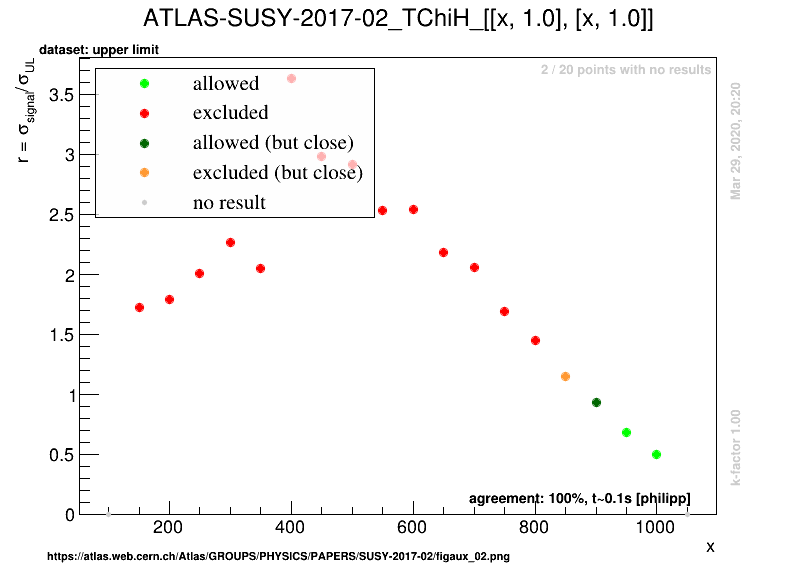
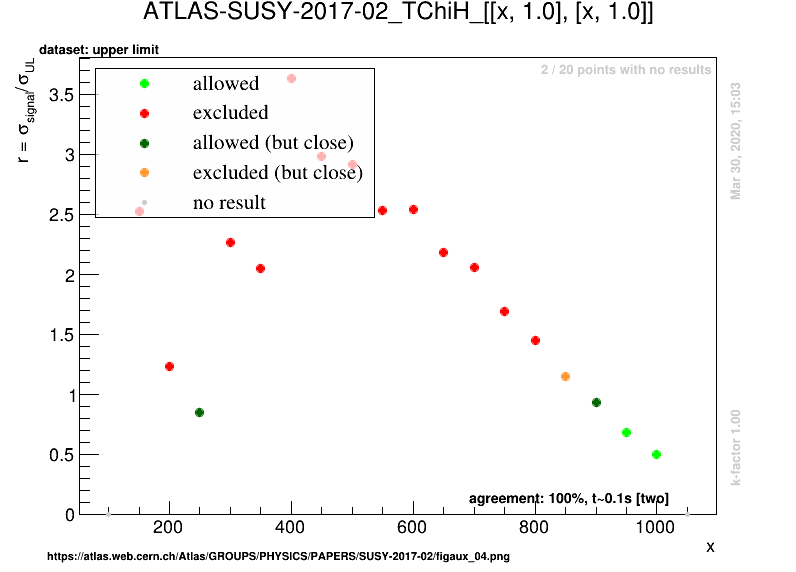
automated update

diff --git a/docs/ValidationUgly123new.md b/docs/ValidationUgly123new.md
@@ -49,19 +49,19 @@ To [official validation plots](Validation123new)
 | | [TChiWZ](SmsDictionary123new#TChiWZ)| 36.1| True |<a href="https://smodels.github.io/validation/123new/13TeV/ATLAS/ATLAS-SUSY-2016-24/validation/TChiWZ_2EqMassAx_EqMassBy.png"><img src="https://smodels.github.io/validation/123new/13TeV/ATLAS/ATLAS-SUSY-2016-24/validation/TChiWZ_2EqMassAx_EqMassBy.png" /></a>  | <img src="https://smodels.github.io/pics/new.png" /> in 1.2.3new! [comment](https://smodels.github.io/validation/123new/13TeV/ATLAS/ATLAS-SUSY-2016-24/validation/TChiWZ.txt) |
 | | [TChipChimSlepSlep](SmsDictionary123new#TChipChimSlepSlep)| 36.1| tbd |<a href="https://smodels.github.io/validation/123new/13TeV/ATLAS/ATLAS-SUSY-2016-24/validation/TChipChimSlepSlep_2EqMassAx_EqMassB0.5x+0.5y_EqMassCy.png"><img src="https://smodels.github.io/validation/123new/13TeV/ATLAS/ATLAS-SUSY-2016-24/validation/TChipChimSlepSlep_2EqMassAx_EqMassB0.5x+0.5y_EqMassCy.png" /></a>  | <img src="https://smodels.github.io/pics/new.png" /> in 1.2.3new!  |
 | | [TSlepSlep](SmsDictionary123new#TSlepSlep)| 36.1| True |<a href="https://smodels.github.io/validation/123new/13TeV/ATLAS/ATLAS-SUSY-2016-24/validation/TSlepSlep_2EqMassAx_EqMassBy.png"><img src="https://smodels.github.io/validation/123new/13TeV/ATLAS/ATLAS-SUSY-2016-24/validation/TSlepSlep_2EqMassAx_EqMassBy.png" /></a>  | <img src="https://smodels.github.io/pics/new.png" /> in 1.2.3new! [comment](https://smodels.github.io/validation/123new/13TeV/ATLAS/ATLAS-SUSY-2016-24/validation/TSlepSlep.txt) |
-| [ATLAS-SUSY-2016-27](https://atlas.web.cern.ch/Atlas/GROUPS/PHYSICS/PAPERS/SUSY-2016-27/)| [T5Zg](SmsDictionary123new#T5Zg)| 36.1| tbd |<a href="https://smodels.github.io/validation/123new/13TeV/ATLAS/ATLAS-SUSY-2016-27/validation/T5Zg_2EqMassAx_EqMassBy_EqMassC1.0.png"><img src="https://smodels.github.io/validation/123new/13TeV/ATLAS/ATLAS-SUSY-2016-27/validation/T5Zg_2EqMassAx_EqMassBy_EqMassC1.0.png" /></a>  | <img src="https://smodels.github.io/pics/new.png" /> in 1.2.3new!  |
-| | [T5gg](SmsDictionary123new#T5gg)| 36.1| tbd |<a href="https://smodels.github.io/validation/123new/13TeV/ATLAS/ATLAS-SUSY-2016-27/validation/T5gg_2EqMassAx_EqMassBy_EqMassC1.0.png"><img src="https://smodels.github.io/validation/123new/13TeV/ATLAS/ATLAS-SUSY-2016-27/validation/T5gg_2EqMassAx_EqMassBy_EqMassC1.0.png" /></a>  | <img src="https://smodels.github.io/pics/new.png" /> in 1.2.3new!  |
-| | [T6gg](SmsDictionary123new#T6gg)| 36.1| tbd |<a href="https://smodels.github.io/validation/123new/13TeV/ATLAS/ATLAS-SUSY-2016-27/validation/T6gg_2EqMassAx_EqMassBy_EqMassC1.0.png"><img src="https://smodels.github.io/validation/123new/13TeV/ATLAS/ATLAS-SUSY-2016-27/validation/T6gg_2EqMassAx_EqMassBy_EqMassC1.0.png" /></a>  | <img src="https://smodels.github.io/pics/new.png" /> in 1.2.3new!  |
-| | [TChipChimgg](SmsDictionary123new#TChipChimgg)| 36.1| tbd |<a href="https://smodels.github.io/validation/123new/13TeV/ATLAS/ATLAS-SUSY-2016-27/validation/TChipChimgg_2EqMassAx_EqMassBy_EqMassC1.0.png"><img src="https://smodels.github.io/validation/123new/13TeV/ATLAS/ATLAS-SUSY-2016-27/validation/TChipChimgg_2EqMassAx_EqMassBy_EqMassC1.0.png" /></a>  | <img src="https://smodels.github.io/pics/new.png" /> in 1.2.3new!  |
+| [ATLAS-SUSY-2016-27](https://atlas.web.cern.ch/Atlas/GROUPS/PHYSICS/PAPERS/SUSY-2016-27/)| [T5Zg](SmsDictionary123new#T5Zg)| 36.1| True |<a href="https://smodels.github.io/validation/123new/13TeV/ATLAS/ATLAS-SUSY-2016-27/validation/T5Zg_2EqMassAx_EqMassBy_EqMassC1.0.png"><img src="https://smodels.github.io/validation/123new/13TeV/ATLAS/ATLAS-SUSY-2016-27/validation/T5Zg_2EqMassAx_EqMassBy_EqMassC1.0.png" /></a>  | <img src="https://smodels.github.io/pics/new.png" /> in 1.2.3new!  |
+| | [T5gg](SmsDictionary123new#T5gg)| 36.1| True |<a href="https://smodels.github.io/validation/123new/13TeV/ATLAS/ATLAS-SUSY-2016-27/validation/T5gg_2EqMassAx_EqMassBy_EqMassC1.0.png"><img src="https://smodels.github.io/validation/123new/13TeV/ATLAS/ATLAS-SUSY-2016-27/validation/T5gg_2EqMassAx_EqMassBy_EqMassC1.0.png" /></a>  | <img src="https://smodels.github.io/pics/new.png" /> in 1.2.3new!  |
+| | [T6gg](SmsDictionary123new#T6gg)| 36.1| True |<a href="https://smodels.github.io/validation/123new/13TeV/ATLAS/ATLAS-SUSY-2016-27/validation/T6gg_2EqMassAx_EqMassBy_EqMassC1.0.png"><img src="https://smodels.github.io/validation/123new/13TeV/ATLAS/ATLAS-SUSY-2016-27/validation/T6gg_2EqMassAx_EqMassBy_EqMassC1.0.png" /></a>  | <img src="https://smodels.github.io/pics/new.png" /> in 1.2.3new!  |
+| | [TChipChimgg](SmsDictionary123new#TChipChimgg)| 36.1| True |<a href="https://smodels.github.io/validation/123new/13TeV/ATLAS/ATLAS-SUSY-2016-27/validation/TChipChimgg_2EqMassAx_EqMassBy_EqMassC1.0.png"><img src="https://smodels.github.io/validation/123new/13TeV/ATLAS/ATLAS-SUSY-2016-27/validation/TChipChimgg_2EqMassAx_EqMassBy_EqMassC1.0.png" /></a>  | <img src="https://smodels.github.io/pics/new.png" /> in 1.2.3new!  |
 | [ATLAS-SUSY-2016-28](https://atlas.web.cern.ch/Atlas/GROUPS/PHYSICS/PAPERS/SUSY-2016-28/)| [T2bb](SmsDictionary123new#T2bb)| 36.1| True |<a href="https://smodels.github.io/validation/123new/13TeV/ATLAS/ATLAS-SUSY-2016-28/validation/T2bb_2EqMassAx_EqMassBy.png"><img src="https://smodels.github.io/validation/123new/13TeV/ATLAS/ATLAS-SUSY-2016-28/validation/T2bb_2EqMassAx_EqMassBy.png" /></a>  | <img src="https://smodels.github.io/pics/new.png" /> in 1.2.3new!  |
 | [ATLAS-SUSY-2017-01](https://atlas.web.cern.ch/Atlas/GROUPS/PHYSICS/PAPERS/SUSY-2017-01/)| [TChiWH](SmsDictionary123new#TChiWH)| 36.1| tbd |<a href="https://smodels.github.io/validation/123new/13TeV/ATLAS/ATLAS-SUSY-2017-01/validation/TChiWH_2EqMassAx_EqMassBy.png"><img src="https://smodels.github.io/validation/123new/13TeV/ATLAS/ATLAS-SUSY-2017-01/validation/TChiWH_2EqMassAx_EqMassBy.png" /></a>  | <img src="https://smodels.github.io/pics/new.png" /> in 1.2.3new! [comment](https://smodels.github.io/validation/123new/13TeV/ATLAS/ATLAS-SUSY-2017-01/validation/TChiWH.txt) |
-| [ATLAS-SUSY-2017-02](https://atlas.web.cern.ch/Atlas/GROUPS/PHYSICS/PAPERS/SUSY-2017-02/)| [TChiH](SmsDictionary123new#TChiH)| 36.1| tbd |<a href="https://smodels.github.io/validation/123new/13TeV/ATLAS/ATLAS-SUSY-2017-02/validation/TChiH_2EqMassAx_EqMassBy.png"><img src="https://smodels.github.io/validation/123new/13TeV/ATLAS/ATLAS-SUSY-2017-02/validation/TChiH_2EqMassAx_EqMassBy.png" /></a>  | <img src="https://smodels.github.io/pics/new.png" /> in 1.2.3new! [comment](https://smodels.github.io/validation/123new/13TeV/ATLAS/ATLAS-SUSY-2017-02/validation/TChiH.txt) |
+| [ATLAS-SUSY-2017-02](https://atlas.web.cern.ch/Atlas/GROUPS/PHYSICS/PAPERS/SUSY-2017-02/)| [TChiH](SmsDictionary123new#TChiH)| 36.1| True |<a href="https://smodels.github.io/validation/123new/13TeV/ATLAS/ATLAS-SUSY-2017-02/validation/TChiH_2EqMassAx_EqMassB1.0.png"><img src="https://smodels.github.io/validation/123new/13TeV/ATLAS/ATLAS-SUSY-2017-02/validation/TChiH_2EqMassAx_EqMassB1.0.png" /></a>  | <img src="https://smodels.github.io/pics/new.png" /> in 1.2.3new! [comment](https://smodels.github.io/validation/123new/13TeV/ATLAS/ATLAS-SUSY-2017-02/validation/TChiH.txt) |
 | [ATLAS-SUSY-2018-04](https://atlas.web.cern.ch/Atlas/GROUPS/PHYSICS/PAPERS/SUSY-2018-04/)| [TStauStau](SmsDictionary123new#TStauStau)| 139.0| True |<a href="https://smodels.github.io/validation/123new/13TeV/ATLAS/ATLAS-SUSY-2018-04/validation/TStauStau_2EqMassAx_EqMassBy.png"><img src="https://smodels.github.io/validation/123new/13TeV/ATLAS/ATLAS-SUSY-2018-04/validation/TStauStau_2EqMassAx_EqMassBy.png" /></a>  | <img src="https://smodels.github.io/pics/new.png" /> in 1.2.3new!  |
 | [ATLAS-SUSY-2018-06](https://atlas.web.cern.ch/Atlas/GROUPS/PHYSICS/PAPERS/SUSY-2018-06/)| [TChiWZ](SmsDictionary123new#TChiWZ)| 139.0| True |<a href="https://smodels.github.io/validation/123new/13TeV/ATLAS/ATLAS-SUSY-2018-06/validation/TChiWZ_2EqMassAx_EqMassBy.png"><img src="https://smodels.github.io/validation/123new/13TeV/ATLAS/ATLAS-SUSY-2018-06/validation/TChiWZ_2EqMassAx_EqMassBy.png" /></a>  | <img src="https://smodels.github.io/pics/new.png" /> in 1.2.3new! [comment](https://smodels.github.io/validation/123new/13TeV/ATLAS/ATLAS-SUSY-2018-06/validation/TChiWZ.txt) |
 | | [TChiWZoff](SmsDictionary123new#TChiWZoff)| 139.0| True |<a href="https://smodels.github.io/validation/123new/13TeV/ATLAS/ATLAS-SUSY-2018-06/validation/TChiWZoff_2EqMassAx_EqMassBy.png"><img src="https://smodels.github.io/validation/123new/13TeV/ATLAS/ATLAS-SUSY-2018-06/validation/TChiWZoff_2EqMassAx_EqMassBy.png" /></a>  | <img src="https://smodels.github.io/pics/new.png" /> in 1.2.3new!  |
 | [ATLAS-SUSY-2018-16](https://atlas.web.cern.ch/Atlas/GROUPS/PHYSICS/PAPERS/SUSY-2018-16/)| [TChiWZoffqq](SmsDictionary123new#TChiWZoffqq)| 139.0| False |<a href="https://smodels.github.io/validation/123new/13TeV/ATLAS/ATLAS-SUSY-2018-16/validation/TChiWZoffqq_2EqMassAx_EqMassBx-y.png"><img src="https://smodels.github.io/validation/123new/13TeV/ATLAS/ATLAS-SUSY-2018-16/validation/TChiWZoffqq_2EqMassAx_EqMassBx-y.png" /></a>  | <img src="https://smodels.github.io/pics/new.png" /> in 1.2.3new!  |
 | | [TSlepSlep](SmsDictionary123new#TSlepSlep)| 139.0| False |<a href="https://smodels.github.io/validation/123new/13TeV/ATLAS/ATLAS-SUSY-2018-16/validation/TSlepSlep_2EqMassAx_EqMassBx-y.png"><img src="https://smodels.github.io/validation/123new/13TeV/ATLAS/ATLAS-SUSY-2018-16/validation/TSlepSlep_2EqMassAx_EqMassBx-y.png" /></a>  | <img src="https://smodels.github.io/pics/new.png" /> in 1.2.3new!  |
-| [ATLAS-SUSY-2018-31](https://atlas.web.cern.ch/Atlas/GROUPS/PHYSICS/PAPERS/SUSY-2018-31/)| [T6bbHH](SmsDictionary123new#T6bbHH)| 139.0| tbd |<a href="https://smodels.github.io/validation/123new/13TeV/ATLAS/ATLAS-SUSY-2018-31/validation/T6bbHH_2EqMassAx_EqMassBy_EqMassC60.0.png"><img src="https://smodels.github.io/validation/123new/13TeV/ATLAS/ATLAS-SUSY-2018-31/validation/T6bbHH_2EqMassAx_EqMassBy_EqMassC60.0.png" /></a><BR><a href="https://smodels.github.io/validation/123new/13TeV/ATLAS/ATLAS-SUSY-2018-31/validation/T6bbHH_2EqMassAx_EqMassBy_EqMassCy-130.0.png"><img src="https://smodels.github.io/validation/123new/13TeV/ATLAS/ATLAS-SUSY-2018-31/validation/T6bbHH_2EqMassAx_EqMassBy_EqMassCy-130.0.png" /></a>  | <img src="https://smodels.github.io/pics/new.png" /> in 1.2.3new!  |
+| [ATLAS-SUSY-2018-31](https://atlas.web.cern.ch/Atlas/GROUPS/PHYSICS/PAPERS/SUSY-2018-31/)| [T6bbHH](SmsDictionary123new#T6bbHH)| 139.0| True |<a href="https://smodels.github.io/validation/123new/13TeV/ATLAS/ATLAS-SUSY-2018-31/validation/T6bbHH_2EqMassAx_EqMassBy_EqMassC60.0.png"><img src="https://smodels.github.io/validation/123new/13TeV/ATLAS/ATLAS-SUSY-2018-31/validation/T6bbHH_2EqMassAx_EqMassBy_EqMassC60.0.png" /></a><BR><a href="https://smodels.github.io/validation/123new/13TeV/ATLAS/ATLAS-SUSY-2018-31/validation/T6bbHH_2EqMassAx_EqMassBy_EqMassCy-130.0.png"><img src="https://smodels.github.io/validation/123new/13TeV/ATLAS/ATLAS-SUSY-2018-31/validation/T6bbHH_2EqMassAx_EqMassBy_EqMassCy-130.0.png" /></a>  | <img src="https://smodels.github.io/pics/new.png" /> in 1.2.3new!  |
 | [ATLAS-SUSY-2018-32](https://atlas.web.cern.ch/Atlas/GROUPS/PHYSICS/PAPERS/SUSY-2018-32/)| [TChiWW](SmsDictionary123new#TChiWW)| 139.0| tbd |<a href="https://smodels.github.io/validation/123new/13TeV/ATLAS/ATLAS-SUSY-2018-32/validation/TChiWW_2EqMassAx_EqMassBy.png"><img src="https://smodels.github.io/validation/123new/13TeV/ATLAS/ATLAS-SUSY-2018-32/validation/TChiWW_2EqMassAx_EqMassBy.png" /></a>  | <img src="https://smodels.github.io/pics/new.png" /> in 1.2.3new!  |
 | | [TChipChimSlepSlep](SmsDictionary123new#TChipChimSlepSlep)| 139.0| tbd |<a href="https://smodels.github.io/validation/123new/13TeV/ATLAS/ATLAS-SUSY-2018-32/validation/TChipChimSlepSlep_2EqMassAx_EqMassB0.5x+0.5y_EqMassCy.png"><img src="https://smodels.github.io/validation/123new/13TeV/ATLAS/ATLAS-SUSY-2018-32/validation/TChipChimSlepSlep_2EqMassAx_EqMassB0.5x+0.5y_EqMassCy.png" /></a>  | <img src="https://smodels.github.io/pics/new.png" /> in 1.2.3new!  |
 | | [TSlepSlep](SmsDictionary123new#TSlepSlep)| 139.0| tbd |<a href="https://smodels.github.io/validation/123new/13TeV/ATLAS/ATLAS-SUSY-2018-32/validation/TSlepSlep_2EqMassAx_EqMassBy.png"><img src="https://smodels.github.io/validation/123new/13TeV/ATLAS/ATLAS-SUSY-2018-32/validation/TSlepSlep_2EqMassAx_EqMassBy.png" /></a>  | <img src="https://smodels.github.io/pics/new.png" /> in 1.2.3new!  |
@@ -96,10 +96,10 @@ To [official validation plots](Validation123new)
 | | [TChiWZ](SmsDictionary123new#TChiWZ)| 36.1| tbd |<a href="https://smodels.github.io/validation/123new/13TeV/ATLAS/ATLAS-SUSY-2016-24-eff/validation/TChiWZ_2EqMassAx_EqMassBy.png"><img src="https://smodels.github.io/validation/123new/13TeV/ATLAS/ATLAS-SUSY-2016-24-eff/validation/TChiWZ_2EqMassAx_EqMassBy.png" /></a>  | <img src="https://smodels.github.io/pics/new.png" /> in 1.2.3new!  |
 | | [TChipChimSlepSlep](SmsDictionary123new#TChipChimSlepSlep)| 36.1| tbd |<a href="https://smodels.github.io/validation/123new/13TeV/ATLAS/ATLAS-SUSY-2016-24-eff/validation/TChipChimSlepSlep_2EqMassAx_EqMassB0.5x+0.5y_EqMassCy.png"><img src="https://smodels.github.io/validation/123new/13TeV/ATLAS/ATLAS-SUSY-2016-24-eff/validation/TChipChimSlepSlep_2EqMassAx_EqMassB0.5x+0.5y_EqMassCy.png" /></a>  | <img src="https://smodels.github.io/pics/new.png" /> in 1.2.3new!  |
 | | [TSlepSlep](SmsDictionary123new#TSlepSlep)| 36.1| tbd |<a href="https://smodels.github.io/validation/123new/13TeV/ATLAS/ATLAS-SUSY-2016-24-eff/validation/TSlepSlep_2EqMassAx_EqMassBy.png"><img src="https://smodels.github.io/validation/123new/13TeV/ATLAS/ATLAS-SUSY-2016-24-eff/validation/TSlepSlep_2EqMassAx_EqMassBy.png" /></a>  | <img src="https://smodels.github.io/pics/new.png" /> in 1.2.3new!  |
-| [ATLAS-SUSY-2016-27](https://atlas.web.cern.ch/Atlas/GROUPS/PHYSICS/PAPERS/SUSY-2016-27/)| [T5Zg](SmsDictionary123new#T5Zg)| 36.1| tbd |<a href="https://smodels.github.io/validation/123new/13TeV/ATLAS/ATLAS-SUSY-2016-27-eff/validation/T5Zg_2EqMassAx_EqMassBy_EqMassC1.0.png"><img src="https://smodels.github.io/validation/123new/13TeV/ATLAS/ATLAS-SUSY-2016-27-eff/validation/T5Zg_2EqMassAx_EqMassBy_EqMassC1.0.png" /></a>  | <img src="https://smodels.github.io/pics/new.png" /> in 1.2.3new!  |
-| | [T5gg](SmsDictionary123new#T5gg)| 36.1| tbd |<a href="https://smodels.github.io/validation/123new/13TeV/ATLAS/ATLAS-SUSY-2016-27-eff/validation/T5gg_2EqMassAx_EqMassBy_EqMassC1.0.png"><img src="https://smodels.github.io/validation/123new/13TeV/ATLAS/ATLAS-SUSY-2016-27-eff/validation/T5gg_2EqMassAx_EqMassBy_EqMassC1.0.png" /></a>  | <img src="https://smodels.github.io/pics/new.png" /> in 1.2.3new!  |
-| | [T6gg](SmsDictionary123new#T6gg)| 36.1| tbd |<a href="https://smodels.github.io/validation/123new/13TeV/ATLAS/ATLAS-SUSY-2016-27-eff/validation/T6gg_2EqMassAx_EqMassBy_EqMassC1.0.png"><img src="https://smodels.github.io/validation/123new/13TeV/ATLAS/ATLAS-SUSY-2016-27-eff/validation/T6gg_2EqMassAx_EqMassBy_EqMassC1.0.png" /></a>  | <img src="https://smodels.github.io/pics/new.png" /> in 1.2.3new!  |
-| | [TChipChimgg](SmsDictionary123new#TChipChimgg)| 36.1| tbd |<a href="https://smodels.github.io/validation/123new/13TeV/ATLAS/ATLAS-SUSY-2016-27-eff/validation/TChipChimgg_2EqMassAx_EqMassBy_EqMassC1.0.png"><img src="https://smodels.github.io/validation/123new/13TeV/ATLAS/ATLAS-SUSY-2016-27-eff/validation/TChipChimgg_2EqMassAx_EqMassBy_EqMassC1.0.png" /></a>  | <img src="https://smodels.github.io/pics/new.png" /> in 1.2.3new!  |
+| [ATLAS-SUSY-2016-27](https://atlas.web.cern.ch/Atlas/GROUPS/PHYSICS/PAPERS/SUSY-2016-27/)| [T5Zg](SmsDictionary123new#T5Zg)| 36.1| True |<a href="https://smodels.github.io/validation/123new/13TeV/ATLAS/ATLAS-SUSY-2016-27-eff/validation/T5Zg_2EqMassAx_EqMassBy_EqMassC1.0.png"><img src="https://smodels.github.io/validation/123new/13TeV/ATLAS/ATLAS-SUSY-2016-27-eff/validation/T5Zg_2EqMassAx_EqMassBy_EqMassC1.0.png" /></a>  | <img src="https://smodels.github.io/pics/new.png" /> in 1.2.3new!  |
+| | [T5gg](SmsDictionary123new#T5gg)| 36.1| True |<a href="https://smodels.github.io/validation/123new/13TeV/ATLAS/ATLAS-SUSY-2016-27-eff/validation/T5gg_2EqMassAx_EqMassBy_EqMassC1.0.png"><img src="https://smodels.github.io/validation/123new/13TeV/ATLAS/ATLAS-SUSY-2016-27-eff/validation/T5gg_2EqMassAx_EqMassBy_EqMassC1.0.png" /></a>  | <img src="https://smodels.github.io/pics/new.png" /> in 1.2.3new!  |
+| | [T6gg](SmsDictionary123new#T6gg)| 36.1| True |<a href="https://smodels.github.io/validation/123new/13TeV/ATLAS/ATLAS-SUSY-2016-27-eff/validation/T6gg_2EqMassAx_EqMassBy_EqMassC1.0.png"><img src="https://smodels.github.io/validation/123new/13TeV/ATLAS/ATLAS-SUSY-2016-27-eff/validation/T6gg_2EqMassAx_EqMassBy_EqMassC1.0.png" /></a>  | <img src="https://smodels.github.io/pics/new.png" /> in 1.2.3new!  |
+| | [TChipChimgg](SmsDictionary123new#TChipChimgg)| 36.1| True |<a href="https://smodels.github.io/validation/123new/13TeV/ATLAS/ATLAS-SUSY-2016-27-eff/validation/TChipChimgg_2EqMassAx_EqMassBy_EqMassC1.0.png"><img src="https://smodels.github.io/validation/123new/13TeV/ATLAS/ATLAS-SUSY-2016-27-eff/validation/TChipChimgg_2EqMassAx_EqMassBy_EqMassC1.0.png" /></a>  | <img src="https://smodels.github.io/pics/new.png" /> in 1.2.3new!  |
 | [ATLAS-SUSY-2017-01](https://atlas.web.cern.ch/Atlas/GROUPS/PHYSICS/PAPERS/SUSY-2017-01/)| [TChiWH](SmsDictionary123new#TChiWH)| 36.1| tbd |<a href="https://smodels.github.io/validation/123new/13TeV/ATLAS/ATLAS-SUSY-2017-01-eff/validation/TChiWH_2EqMassAx_EqMassBy.png"><img src="https://smodels.github.io/validation/123new/13TeV/ATLAS/ATLAS-SUSY-2017-01-eff/validation/TChiWH_2EqMassAx_EqMassBy.png" /></a>  | <img src="https://smodels.github.io/pics/new.png" /> in 1.2.3new! [comment](https://smodels.github.io/validation/123new/13TeV/ATLAS/ATLAS-SUSY-2017-01-eff/validation/TChiWH.txt) |
 | [ATLAS-SUSY-2018-04](https://atlas.web.cern.ch/Atlas/GROUPS/PHYSICS/PAPERS/SUSY-2018-04/)| [TStauStau](SmsDictionary123new#TStauStau)| 139.0| False |<a href="https://smodels.github.io/validation/123new/13TeV/ATLAS/ATLAS-SUSY-2018-04-eff/validation/TStauStau_2EqMassAx_EqMassBy.png"><img src="https://smodels.github.io/validation/123new/13TeV/ATLAS/ATLAS-SUSY-2018-04-eff/validation/TStauStau_2EqMassAx_EqMassBy.png" /></a>  | <img src="https://smodels.github.io/pics/new.png" /> in 1.2.3new! [comment](https://smodels.github.io/validation/123new/13TeV/ATLAS/ATLAS-SUSY-2018-04-eff/validation/TStauStau.txt) |
 | [ATLAS-SUSY-2018-16](https://atlas.web.cern.ch/Atlas/GROUPS/PHYSICS/PAPERS/SUSY-2018-16/)| [TSlepSlep](SmsDictionary123new#TSlepSlep)| 139.0| False |<a href="https://smodels.github.io/validation/123new/13TeV/ATLAS/ATLAS-SUSY-2018-16-eff/validation/TSlepSlep_2EqMassAx_EqMassBx-y.png"><img src="https://smodels.github.io/validation/123new/13TeV/ATLAS/ATLAS-SUSY-2018-16-eff/validation/TSlepSlep_2EqMassAx_EqMassBx-y.png" /></a>  | <img src="https://smodels.github.io/pics/new.png" /> in 1.2.3new!  |
@@ -164,4 +164,4 @@ To [official validation plots](Validation123new)
 | | [T5GQ](SmsDictionary123new#T5GQ)| 35.9| tbd |<a href="https://smodels.github.io/validation/123new/13TeV/CMS/CMS-SUS-16-033-eff/validation/T5GQ_EqMassAx_EqMassBy_EqMassC0.0__EqmassAy_EqmassB0.0.png"><img src="https://smodels.github.io/validation/123new/13TeV/CMS/CMS-SUS-16-033-eff/validation/T5GQ_EqMassAx_EqMassBy_EqMassC0.0__EqmassAy_EqmassB0.0.png" /></a><BR><a href="https://smodels.github.io/validation/123new/13TeV/CMS/CMS-SUS-16-033-eff/validation/T5GQ_EqMassAx_EqMassBy_EqMassC695.0__EqmassAy_EqmassB695.0.png"><img src="https://smodels.github.io/validation/123new/13TeV/CMS/CMS-SUS-16-033-eff/validation/T5GQ_EqMassAx_EqMassBy_EqMassC695.0__EqmassAy_EqmassB695.0.png" /></a><BR><a href="https://smodels.github.io/validation/123new/13TeV/CMS/CMS-SUS-16-033-eff/validation/T5GQ_EqMassAx_EqMassBy_EqMassC995.0__EqmassAy_EqmassB995.0.png"><img src="https://smodels.github.io/validation/123new/13TeV/CMS/CMS-SUS-16-033-eff/validation/T5GQ_EqMassAx_EqMassBy_EqMassC995.0__EqmassAy_EqmassB995.0.png" /></a>  | <img src="https://smodels.github.io/pics/new.png" /> in 1.2.3new!  |
 | | [TGQ](SmsDictionary123new#TGQ)| 35.9| tbd |<a href="https://smodels.github.io/validation/123new/13TeV/CMS/CMS-SUS-16-033-eff/validation/TGQ_EqMassAx_EqMassB0.0__EqmassAy_EqmassB0.0.png"><img src="https://smodels.github.io/validation/123new/13TeV/CMS/CMS-SUS-16-033-eff/validation/TGQ_EqMassAx_EqMassB0.0__EqmassAy_EqmassB0.0.png" /></a><BR><a href="https://smodels.github.io/validation/123new/13TeV/CMS/CMS-SUS-16-033-eff/validation/TGQ_EqMassAx_EqMassB695.0__EqmassAy_EqmassB695.0.png"><img src="https://smodels.github.io/validation/123new/13TeV/CMS/CMS-SUS-16-033-eff/validation/TGQ_EqMassAx_EqMassB695.0__EqmassAy_EqmassB695.0.png" /></a><BR><a href="https://smodels.github.io/validation/123new/13TeV/CMS/CMS-SUS-16-033-eff/validation/TGQ_EqMassAx_EqMassB995.0__EqmassAy_EqmassB995.0.png"><img src="https://smodels.github.io/validation/123new/13TeV/CMS/CMS-SUS-16-033-eff/validation/TGQ_EqMassAx_EqMassB995.0__EqmassAy_EqmassB995.0.png" /></a>  | <img src="https://smodels.github.io/pics/new.png" /> in 1.2.3new!  |
 
-This page was created Mon Mar 30 14:16:39 2020
+This page was created Mon Mar 30 15:17:36 2020

diff --git a/docs/SmsDictionary123new.md b/docs/SmsDictionary123new.md
@@ -14,9 +14,9 @@ There is also a [ListOfAnalyses123new](https://smodels.github.io/docs/ListOfAnal
 | 4 | <a name="T1ttttoff"></a>**T1ttttoff**<br> | `[[[b,b,W,W]],[[b,b,W,W]]]`<BR>`(MET,MET);`<BR>`[[[b,W,b,W]],[[b,W,b,W]]]`<BR>`(MET,MET)` | <img alt="T1ttttoff" src="../feyn/straight/T1ttttoff.png" height="130"> | [CMS-SUS-16-009](ListOfAnalyses123new#CMS-SUS-16-009)<BR>[CMS-SUS-16-033](ListOfAnalyses123new#CMS-SUS-16-033)<BR>[CMS-SUS-19-006](ListOfAnalyses123new#CMS-SUS-19-006)|
 | 5 | <a name="T2"></a>**T2**<br> | `[[[q]],[[q]]]`<BR>`(MET,MET)` | <img alt="T2" src="../feyn/straight/T2.png" height="130"> | [ATLAS-SUSY-2016-07](ListOfAnalyses123new#ATLAS-SUSY-2016-07)<BR>[CMS-SUS-16-033](ListOfAnalyses123new#CMS-SUS-16-033)<BR>[CMS-SUS-19-006](ListOfAnalyses123new#CMS-SUS-19-006)|
 | 6 | <a name="T2bb"></a>**T2bb**<br> | `[[[b]],[[b]]]`<BR>`(MET,MET)` | <img alt="T2bb" src="../feyn/straight/T2bb.png" height="130"> | [ATLAS-SUSY-2016-15](ListOfAnalyses123new#ATLAS-SUSY-2016-15)<BR>[ATLAS-SUSY-2016-28](ListOfAnalyses123new#ATLAS-SUSY-2016-28)<BR>[CMS-SUS-16-033](ListOfAnalyses123new#CMS-SUS-16-033)<BR>[CMS-SUS-19-006](ListOfAnalyses123new#CMS-SUS-19-006)|
-| 7 | <a name="T2bbffff"></a>**T2bbffff**<br> | `[[[b,l,nu]],[[b,q,q]]]`<BR>`(MET,MET);`<BR>`[[[b,l,nu]],[[b,q,q]]]+`<BR>`[[[b,q,q]],[[b,q,q]]]`<BR>`(MET,MET);`<BR>`[[[b,q,q]],[[b,q,q]]]`<BR>`(MET,MET);`<BR>`[[[b,l,nu]],[[b,q,q]]]`<BR>`(MET,MET);`<BR>`[[[b,l,nu]],[[b,q,q]]]`<BR>`(MET,MET)` | <img alt="T2bbffff" src="../feyn/straight/T2bbffff.png" height="130"> | [ATLAS-SUSY-2016-15](ListOfAnalyses123new#ATLAS-SUSY-2016-15)<BR>[ATLAS-SUSY-2016-16](ListOfAnalyses123new#ATLAS-SUSY-2016-16)<BR>[CMS-SUS-17-005](ListOfAnalyses123new#CMS-SUS-17-005)|
+| 7 | <a name="T2bbffff"></a>**T2bbffff**<br> | `[[[b,l,nu]],[[b,q,q]]]`<BR>`(MET,MET);`<BR>`[[[b,q,q]],[[b,q,q]]]`<BR>`(MET,MET);`<BR>`[[[b,l,nu]],[[b,q,q]]]`<BR>`(MET,MET);`<BR>`[[[b,l,nu]],[[b,q,q]]]`<BR>`(MET,MET);`<BR>`[[[b,l,nu]],[[b,q,q]]]+`<BR>`[[[b,q,q]],[[b,q,q]]]`<BR>`(MET,MET)` | <img alt="T2bbffff" src="../feyn/straight/T2bbffff.png" height="130"> | [ATLAS-SUSY-2016-15](ListOfAnalyses123new#ATLAS-SUSY-2016-15)<BR>[ATLAS-SUSY-2016-16](ListOfAnalyses123new#ATLAS-SUSY-2016-16)<BR>[CMS-SUS-17-005](ListOfAnalyses123new#CMS-SUS-17-005)|
 | 8 | <a name="T2tt"></a>**T2tt**<br> | `[[[t]],[[t]]]`<BR>`(MET,MET)` | <img alt="T2tt" src="../feyn/straight/T2tt.png" height="130"> | [ATLAS-SUSY-2016-15](ListOfAnalyses123new#ATLAS-SUSY-2016-15)<BR>[ATLAS-SUSY-2016-16](ListOfAnalyses123new#ATLAS-SUSY-2016-16)<BR>[CMS-SUS-16-009](ListOfAnalyses123new#CMS-SUS-16-009)<BR>[CMS-SUS-16-033](ListOfAnalyses123new#CMS-SUS-16-033)<BR>[CMS-SUS-17-010](ListOfAnalyses123new#CMS-SUS-17-010)<BR>[CMS-SUS-19-006](ListOfAnalyses123new#CMS-SUS-19-006)|
-| 9 | <a name="T2ttoff"></a>**T2ttoff**<br> | `[[[b,W]],[[b,W]]]`<BR>`(MET,MET);`<BR>`[[[W,b]],[[W,b]]]`<BR>`(MET,MET);`<BR>`[[[b,W]],[[b,W]]]`<BR>`(MET,MET)` | <img alt="T2ttoff" src="../feyn/straight/T2ttoff.png" height="130"> | [ATLAS-SUSY-2016-15](ListOfAnalyses123new#ATLAS-SUSY-2016-15)<BR>[ATLAS-SUSY-2016-16](ListOfAnalyses123new#ATLAS-SUSY-2016-16)<BR>[CMS-SUS-16-009](ListOfAnalyses123new#CMS-SUS-16-009)<BR>[CMS-SUS-16-033](ListOfAnalyses123new#CMS-SUS-16-033)<BR>[CMS-SUS-17-010](ListOfAnalyses123new#CMS-SUS-17-010)<BR>[CMS-SUS-19-006](ListOfAnalyses123new#CMS-SUS-19-006)|
+| 9 | <a name="T2ttoff"></a>**T2ttoff**<br> | `[[[b,W]],[[b,W]]]`<BR>`(MET,MET);`<BR>`[[[b,W]],[[b,W]]]`<BR>`(MET,MET);`<BR>`[[[W,b]],[[W,b]]]`<BR>`(MET,MET)` | <img alt="T2ttoff" src="../feyn/straight/T2ttoff.png" height="130"> | [ATLAS-SUSY-2016-15](ListOfAnalyses123new#ATLAS-SUSY-2016-15)<BR>[ATLAS-SUSY-2016-16](ListOfAnalyses123new#ATLAS-SUSY-2016-16)<BR>[CMS-SUS-16-009](ListOfAnalyses123new#CMS-SUS-16-009)<BR>[CMS-SUS-16-033](ListOfAnalyses123new#CMS-SUS-16-033)<BR>[CMS-SUS-17-010](ListOfAnalyses123new#CMS-SUS-17-010)<BR>[CMS-SUS-19-006](ListOfAnalyses123new#CMS-SUS-19-006)|
 | 10 | <a name="T3GQ"></a>**T3GQ**<br> | `[[[q]],[[q],[q]]]`<BR>`(MET,MET)` | <img alt="T3GQ" src="../feyn/straight/T3GQ.png" height="130"> | [ATLAS-SUSY-2016-07](ListOfAnalyses123new#ATLAS-SUSY-2016-07)<BR>[CMS-SUS-16-033](ListOfAnalyses123new#CMS-SUS-16-033)|
 | 11 | <a name="T5GQ"></a>**T5GQ**<br> | `[[[q],[q,q]],[[q,q]]]`<BR>`(MET,MET)` | <img alt="T5GQ" src="../feyn/straight/T5GQ.png" height="130"> | [ATLAS-SUSY-2016-07](ListOfAnalyses123new#ATLAS-SUSY-2016-07)<BR>[CMS-SUS-16-033](ListOfAnalyses123new#CMS-SUS-16-033)|
 | 12 | <a name="T5HH"></a>**T5HH**<br> | `[[[q,q],[h]],[[q,q],[h]]]`<BR>`(MET,MET)` | <img alt="T5HH" src="../feyn/straight/T5HH.png" height="130"> | [CMS-SUS-17-006](ListOfAnalyses123new#CMS-SUS-17-006)|
@@ -24,7 +24,7 @@ There is also a [ListOfAnalyses123new](https://smodels.github.io/docs/ListOfAnal
 | 14 | <a name="T5Hg"></a>**T5Hg**<br> | `[[[q,q],[h]],[[q,q],[y]]]+`<BR>`[[[q,q],[y]],[[q,q],[y]]]+`<BR>`[[[q,q],[h]],[[q,q],[h]]]`<BR>`(MET,MET)` | <img alt="T5Hg" src="../feyn/straight/T5Hg.png" height="130"> | [CMS-SUS-18-002](ListOfAnalyses123new#CMS-SUS-18-002)|
 | 15 | <a name="T5WW"></a>**T5WW**<br> | `[[[q,q],[W]],[[q,q],[W]]]`<BR>`(MET,MET)` | <img alt="T5WW" src="../feyn/straight/T5WW.png" height="130"> | [ATLAS-SUSY-2016-07](ListOfAnalyses123new#ATLAS-SUSY-2016-07)|
 | 16 | <a name="T5WWoff"></a>**T5WWoff**<br> | `[[[q,q],[q,q]],[[q,q],[q,q]]]`<BR>`(MET,MET)` | <img alt="T5WWoff" src="../feyn/straight/T5WWoff.png" height="130"> | [ATLAS-SUSY-2016-07](ListOfAnalyses123new#ATLAS-SUSY-2016-07)|
-| 17 | <a name="T5WZh"></a>**T5WZh**<br> | `[[[q,q],[Z]],[[q,q],[W]]]+`<BR>`[[[q,q],[h]],[[q,q],[W]]]+`<BR>`[[[q,q],[W]],[[q,q],[W]]]+`<BR>`[[[q,q],[Z]],[[q,q],[Z]]]+`<BR>`[[[q,q],[h]],[[q,q],[h]]]+`<BR>`[[[q,q],[h]],[[q,q],[Z]]]`<BR>`(MET,MET);`<BR>`[[[q,q],[Z]],[[q,q],[W]]]+`<BR>`[[[q,q],[h]],[[q,q],[W]]]+`<BR>`[[[q,q],[h]],[[q,q],[h]]]+`<BR>`[[[q,q],[h]],[[q,q],[Z]]]`<BR>`(MET,MET)` | <img alt="T5WZh" src="../feyn/straight/T5WZh.png" height="130"> | [ATLAS-SUSY-2016-07](ListOfAnalyses123new#ATLAS-SUSY-2016-07)|
+| 17 | <a name="T5WZh"></a>**T5WZh**<br> | `[[[q,q],[Z]],[[q,q],[W]]]+`<BR>`[[[q,q],[h]],[[q,q],[W]]]+`<BR>`[[[q,q],[h]],[[q,q],[h]]]+`<BR>`[[[q,q],[h]],[[q,q],[Z]]]`<BR>`(MET,MET);`<BR>`[[[q,q],[Z]],[[q,q],[W]]]+`<BR>`[[[q,q],[h]],[[q,q],[W]]]+`<BR>`[[[q,q],[W]],[[q,q],[W]]]+`<BR>`[[[q,q],[Z]],[[q,q],[Z]]]+`<BR>`[[[q,q],[h]],[[q,q],[h]]]+`<BR>`[[[q,q],[h]],[[q,q],[Z]]]`<BR>`(MET,MET)` | <img alt="T5WZh" src="../feyn/straight/T5WZh.png" height="130"> | [ATLAS-SUSY-2016-07](ListOfAnalyses123new#ATLAS-SUSY-2016-07)|
 | 18 | <a name="T5ZZ"></a>**T5ZZ**<br> | `[[[q,q],[Z]],[[q,q],[Z]]]`<BR>`(MET,MET)` | <img alt="T5ZZ" src="../feyn/straight/T5ZZ.png" height="130"> | [ATLAS-SUSY-2016-07](ListOfAnalyses123new#ATLAS-SUSY-2016-07)|
 | 19 | <a name="T5Zg"></a>**T5Zg**<br> | `[[[q,q],[Z]],[[q,q],[y]]]+`<BR>`[[[q,q],[y]],[[q,q],[y]]]+`<BR>`[[[q,q],[Z]],[[q,q],[Z]]]`<BR>`(MET,MET)` | <img alt="T5Zg" src="../feyn/straight/T5Zg.png" height="130"> | [ATLAS-SUSY-2016-27](ListOfAnalyses123new#ATLAS-SUSY-2016-27)|
 | 20 | <a name="T5bbbbZg"></a>**T5bbbbZg**<br> | `[[[b,b],[Z]],[[b,b],[y]]]+`<BR>`[[[b,b],[y]],[[b,b],[y]]]+`<BR>`[[[b,b],[Z]],[[b,b],[Z]]]`<BR>`(MET,MET)` | <img alt="T5bbbbZg" src="../feyn/straight/T5bbbbZg.png" height="130"> | [CMS-SUS-18-002](ListOfAnalyses123new#CMS-SUS-18-002)|

diff --git a/docs/Validation123new.md b/docs/Validation123new.md
@@ -161,4 +161,4 @@ The validation procedure for upper limit maps used here is explained in [arXiv:1
 | | [T5GQ](SmsDictionary123new#T5GQ)| 35.9|<a href="https://smodels.github.io/validation/123new/13TeV/CMS/CMS-SUS-16-033-eff/validation/T5GQ_EqMassAx_EqMassBy_EqMassC0.0__EqmassAy_EqmassB0.0_pretty.png"><img src="https://smodels.github.io/validation/123new/13TeV/CMS/CMS-SUS-16-033-eff/validation/T5GQ_EqMassAx_EqMassBy_EqMassC0.0__EqmassAy_EqmassB0.0_pretty.png" /></a><BR><a href="https://smodels.github.io/validation/123new/13TeV/CMS/CMS-SUS-16-033-eff/validation/T5GQ_EqMassAx_EqMassBy_EqMassC695.0__EqmassAy_EqmassB695.0_pretty.png"><img src="https://smodels.github.io/validation/123new/13TeV/CMS/CMS-SUS-16-033-eff/validation/T5GQ_EqMassAx_EqMassBy_EqMassC695.0__EqmassAy_EqmassB695.0_pretty.png" /></a><BR><a href="https://smodels.github.io/validation/123new/13TeV/CMS/CMS-SUS-16-033-eff/validation/T5GQ_EqMassAx_EqMassBy_EqMassC695.0__EqmassAy_EqmassB695_pretty.png"><img src="https://smodels.github.io/validation/123new/13TeV/CMS/CMS-SUS-16-033-eff/validation/T5GQ_EqMassAx_EqMassBy_EqMassC695.0__EqmassAy_EqmassB695_pretty.png" /></a><BR><a href="https://smodels.github.io/validation/123new/13TeV/CMS/CMS-SUS-16-033-eff/validation/T5GQ_EqMassAx_EqMassBy_EqMassC995.0__EqmassAy_EqmassB995.0_pretty.png"><img src="https://smodels.github.io/validation/123new/13TeV/CMS/CMS-SUS-16-033-eff/validation/T5GQ_EqMassAx_EqMassBy_EqMassC995.0__EqmassAy_EqmassB995.0_pretty.png" /></a>  | <img src="https://smodels.github.io/pics/new.png" /> in 1.2.3new!  |
 | | [TGQ](SmsDictionary123new#TGQ)| 35.9|<a href="https://smodels.github.io/validation/123new/13TeV/CMS/CMS-SUS-16-033-eff/validation/TGQ_EqMassAx_EqMassB0.0__EqmassAy_EqmassB0.0_pretty.png"><img src="https://smodels.github.io/validation/123new/13TeV/CMS/CMS-SUS-16-033-eff/validation/TGQ_EqMassAx_EqMassB0.0__EqmassAy_EqmassB0.0_pretty.png" /></a><BR><a href="https://smodels.github.io/validation/123new/13TeV/CMS/CMS-SUS-16-033-eff/validation/TGQ_EqMassAx_EqMassB695.0__EqmassAy_EqmassB695.0_pretty.png"><img src="https://smodels.github.io/validation/123new/13TeV/CMS/CMS-SUS-16-033-eff/validation/TGQ_EqMassAx_EqMassB695.0__EqmassAy_EqmassB695.0_pretty.png" /></a><BR><a href="https://smodels.github.io/validation/123new/13TeV/CMS/CMS-SUS-16-033-eff/validation/TGQ_EqMassAx_EqMassB995.0__EqmassAy_EqmassB995.0_pretty.png"><img src="https://smodels.github.io/validation/123new/13TeV/CMS/CMS-SUS-16-033-eff/validation/TGQ_EqMassAx_EqMassB995.0__EqmassAy_EqmassB995.0_pretty.png" /></a>  | <img src="https://smodels.github.io/pics/new.png" /> in 1.2.3new!  |
 
-This page was created Mon Mar 30 14:15:07 2020
+This page was created Mon Mar 30 15:16:21 2020

diff --git a/docs/ListOfAnalyses123newWithSuperseded.md b/docs/ListOfAnalyses123newWithSuperseded.md
@@ -54,7 +54,7 @@ Link to list of results [without superseded results](ListOfAnalyses123new).
 | [ATLAS-SUSY-2017-02](https://atlas.web.cern.ch/Atlas/GROUPS/PHYSICS/PAPERS/SUSY-2017-02/)<a name="ATLAS-SUSY-2017-02"></a> | 0L + jets + Etmiss | 36.1 | [TChiH](SmsDictionary123new#TChiH) | |&#10004; |
 | [ATLAS-SUSY-2018-04](https://atlas.web.cern.ch/Atlas/GROUPS/PHYSICS/PAPERS/SUSY-2018-04/)<a name="ATLAS-SUSY-2018-04"></a> | 2 hadronic taus (OS) | 139.0 | [TStauStau](SmsDictionary123new#TStauStau) | | |
 | [ATLAS-SUSY-2018-06](https://atlas.web.cern.ch/Atlas/GROUPS/PHYSICS/PAPERS/SUSY-2018-06/)<a name="ATLAS-SUSY-2018-06"></a> | 3 leptons EW-ino | 139.0 | [TChiWZ](SmsDictionary123new#TChiWZ), [TChiWZoff](SmsDictionary123new#TChiWZoff) | |&#10004; |
-| [ATLAS-SUSY-2018-31](https://atlas.web.cern.ch/Atlas/GROUPS/PHYSICS/PAPERS/SUSY-2018-31/)<a name="ATLAS-SUSY-2018-31"></a> | higgs + b-jets + Etmiss | 139.0 | [T6bbHH](SmsDictionary123new#T6bbHH) | | |
+| [ATLAS-SUSY-2018-31](https://atlas.web.cern.ch/Atlas/GROUPS/PHYSICS/PAPERS/SUSY-2018-31/)<a name="ATLAS-SUSY-2018-31"></a> | 2b + 2H(bb) + Etmiss | 139.0 | [T6bbHH](SmsDictionary123new#T6bbHH) | | |
 | [ATLAS-SUSY-2018-32](https://atlas.web.cern.ch/Atlas/GROUPS/PHYSICS/PAPERS/SUSY-2018-32/)<a name="ATLAS-SUSY-2018-32"></a> | 2 OS leptons + Etmiss | 139.0 | [TChiWW](SmsDictionary123new#TChiWW), [TChipChimSlepSlep](SmsDictionary123new#TChipChimSlepSlep), [TSlepSlep](SmsDictionary123new#TSlepSlep) | | |
 | [ATLAS-SUSY-2019-08](https://atlas.web.cern.ch/Atlas/GROUPS/PHYSICS/PAPERS/SUSY-2019-08/)<a name="ATLAS-SUSY-2019-08"></a> | 1L + higgs + Etmiss (EWino) | 139.0 | [TChiWH](SmsDictionary123new#TChiWH) | | |
 

diff --git a/docs/ListOfAnalyses123new.md b/docs/ListOfAnalyses123new.md
@@ -54,7 +54,7 @@ Link to list of results [including superseded results](ListOfAnalyses123newWithS
 | [ATLAS-SUSY-2017-02](https://atlas.web.cern.ch/Atlas/GROUPS/PHYSICS/PAPERS/SUSY-2017-02/)<a name="ATLAS-SUSY-2017-02"></a> | 0L + jets + Etmiss | 36.1 | [TChiH](SmsDictionary123new#TChiH) |&#10004; |
 | [ATLAS-SUSY-2018-04](https://atlas.web.cern.ch/Atlas/GROUPS/PHYSICS/PAPERS/SUSY-2018-04/)<a name="ATLAS-SUSY-2018-04"></a> | 2 hadronic taus (OS) | 139.0 | [TStauStau](SmsDictionary123new#TStauStau) | |
 | [ATLAS-SUSY-2018-06](https://atlas.web.cern.ch/Atlas/GROUPS/PHYSICS/PAPERS/SUSY-2018-06/)<a name="ATLAS-SUSY-2018-06"></a> | 3 leptons EW-ino | 139.0 | [TChiWZ](SmsDictionary123new#TChiWZ), [TChiWZoff](SmsDictionary123new#TChiWZoff) |&#10004; |
-| [ATLAS-SUSY-2018-31](https://atlas.web.cern.ch/Atlas/GROUPS/PHYSICS/PAPERS/SUSY-2018-31/)<a name="ATLAS-SUSY-2018-31"></a> | higgs + b-jets + Etmiss | 139.0 | [T6bbHH](SmsDictionary123new#T6bbHH) | |
+| [ATLAS-SUSY-2018-31](https://atlas.web.cern.ch/Atlas/GROUPS/PHYSICS/PAPERS/SUSY-2018-31/)<a name="ATLAS-SUSY-2018-31"></a> | 2b + 2H(bb) + Etmiss | 139.0 | [T6bbHH](SmsDictionary123new#T6bbHH) | |
 | [ATLAS-SUSY-2018-32](https://atlas.web.cern.ch/Atlas/GROUPS/PHYSICS/PAPERS/SUSY-2018-32/)<a name="ATLAS-SUSY-2018-32"></a> | 2 OS leptons + Etmiss | 139.0 | [TChiWW](SmsDictionary123new#TChiWW), [TChipChimSlepSlep](SmsDictionary123new#TChipChimSlepSlep), [TSlepSlep](SmsDictionary123new#TSlepSlep) | |
 | [ATLAS-SUSY-2019-08](https://atlas.web.cern.ch/Atlas/GROUPS/PHYSICS/PAPERS/SUSY-2019-08/)<a name="ATLAS-SUSY-2019-08"></a> | 1L + higgs + Etmiss (EWino) | 139.0 | [TChiWH](SmsDictionary123new#TChiWH) | |
 
